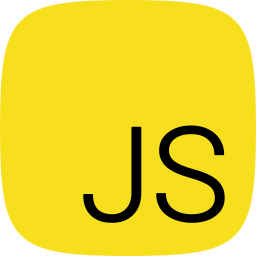
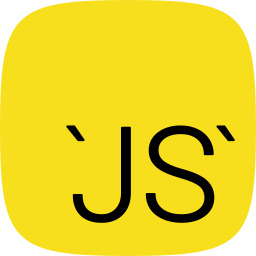
An update

Changed region(s): [[0.2812, 0.4688, 0.9375, 0.875], [0.25, 0.4688, 0.3438, 0.5625]]

diff --git a/index.html b/index.html
@@ -17,11 +17,11 @@
 	<p>This page acts (almost) like a placeholder but it'll gradually evolve.</p>
 	<hr>
 	<div id="homescreen">
-	<a href="template-literals" class="icon"><img src="icons/js.png" alt="">Template literals</a>
-	<a href="javascript:alert('not available yet')" class="icon disabled"><img src="icons/lrc.png" alt="">lyricmaster</a>
-	<a href="javascript:alert('hey, it\'s just a placeholder!')" class="icon"><img src="icons/idk.png" alt="">Placeholder</a>
-	<a href="javascript:alert('hey, it\'s just a placeholder!')" class="icon"><img src="icons/idk.png" alt="">Placeholder</a>
-	<a href="javascript:alert('hey, it\'s just a placeholder!')" class="icon"><img src="icons/idk.png" alt="">Placeholder</a>
+	<a href="template-literals" class="icon"><img src="icons/js.png" alt="">JS literals</a>
+	<a href="javascript:alert('not available yet')" class="icon"><img src="icons/idk.png" alt="">Placeholder</a>
+	<a href="javascript:alert('not available yet')" class="icon"><img src="icons/idk.png" alt="">Placeholder</a>
+	<a href="javascript:alert('not available yet')" class="icon"><img src="icons/idk.png" alt="">Placeholder</a>
+	<a href="javascript:alert('not available yet')" class="icon"><img src="icons/idk.png" alt="">Placeholder</a>
 	</div>
 	<hr>
 	<i>swiatekf361 &sdot; <span id="year">2025</span></i>

diff --git a/style.css b/style.css
@@ -78,10 +78,6 @@ div#bg {
 	}
 	div#bg {
 		background-color: green;
-		background: -webkit-gradient(linear, left top, left bottom, color-stop(0%, green), color-stop(100%, transparent));
-		background: -webkit-linear-gradient(270deg, green, transparent);
-		background: -moz-linear-gradient(270deg, green, transparent);
-		background: -o-linear-gradient(270deg, green, transparent);
 		background: linear-gradient(to bottom, green, transparent);
 	}
 	.icon:hover {
